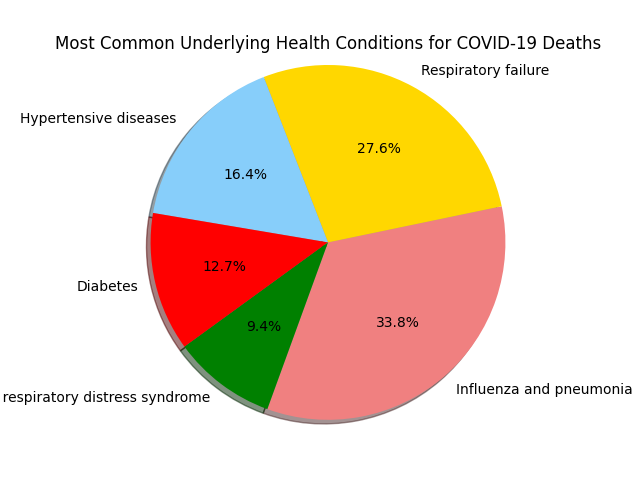
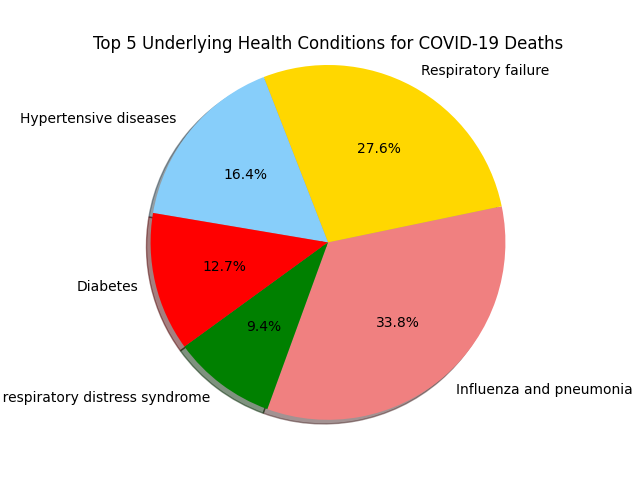
fixed output

Changed region(s): [[0.0625, 0.0625, 0.9375, 0.125]]

diff --git a/COVID_Analysis.py b/COVID_Analysis.py
@@ -13,28 +13,24 @@ df = pd.read_csv("Resources/COVID19_data.csv")
 # Change column heading "Number of Mentions" to "Total_Deaths" so it's more understandable
 df.rename(columns={"Number of Mentions": "Total_Deaths"}, inplace=True)
 
-# Convert "Total" column to float for aggregating
+# Convert "Total_Deaths" column to float for aggregating
 df["Total_Deaths"] = df["Total_Deaths"].str.replace(",", "").astype(float)
 
-# Groupby "Total" to find total for each condition
+# Groupby "Total_Deaths" to find total for each condition
 df = df.groupby("Condition").Total_Deaths.sum().reset_index()
 
-# Rank totals in descending order
-df = df.sort_values("Total_Deaths", ascending=False)
-
-# Reset index and make it start with 1 (instad of default 0)
-df = df.reset_index(drop=True)
-df.index = df.index + 1
+# Rank total deaths in descending order
+df = df.sort_values("Total_Deaths", ascending=False, ignore_index=True)
 
 # Drop first two rows/conditions of dataframe ("COVID-19" and "All other conditions and causes") - not helpful for analyzing conditionss
 # Reset index
 df = df.drop([df.index[0], df.index[1]]).reset_index(drop=True)
 
-# Make index start with 1 (because displaying rank)
+# Make index start with 1 (so that output df will display ranking number next to each condition)
 df.index = df.index + 1
 
-# Save dataframe
-df.to_csv("Output/Top_10_DataFrame.csv", index=False)
+# Save dataframe as csv file
+df.to_csv("Output/Top_10_DataFrame.csv")
 
 ##########################################
 ########## MATPLOTLIB PIE CHART ##########
@@ -61,7 +57,7 @@ plt.pie(totals_top5, labels=names_top5, colors=colors,
         autopct="%1.1f%%", shadow=True, startangle=250, radius=1.2)
 
 # Chart title
-plt.title("Most Common Underlying Health Conditions for COVID-19 Deaths")
+plt.title("Top 5 Underlying Health Conditions for COVID-19 Deaths")
 
 # Save chart
 plt.savefig("Output/COVID_piechart.png")
